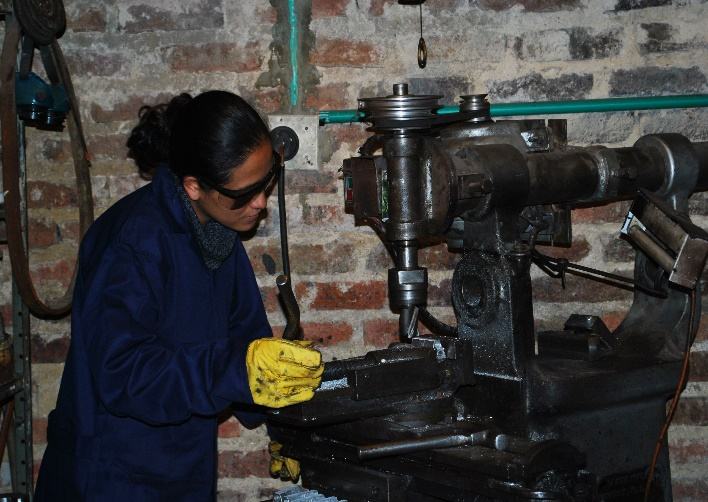
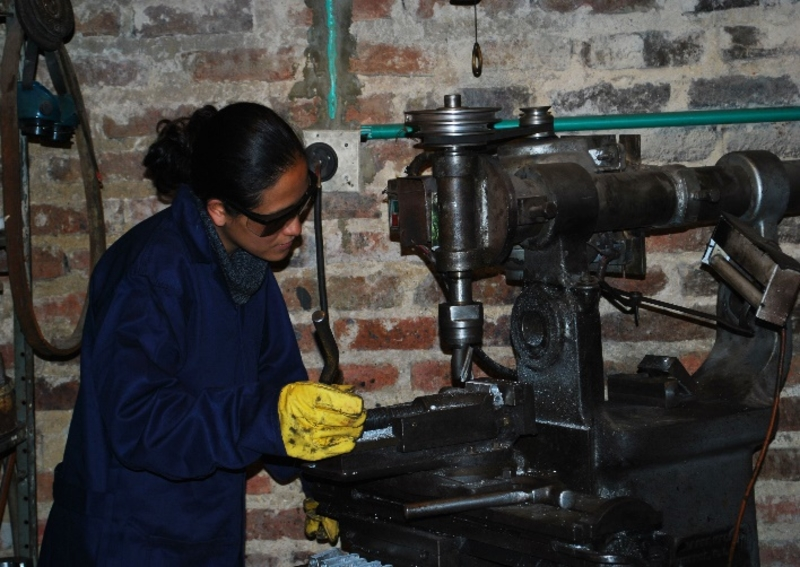
feat: update web version

Changed region(s): [[0.435, 0.747, 0.4972, 0.7769], [0.8701, 0.4183, 0.9011, 0.4482], [0.5593, 0.2092, 0.5904, 0.239]]

diff --git a/assets/img/README.md b/assets/img/README.md
@@ -20,3 +20,12 @@ mogrify -format jpg *.png
 ```shell
 n=1; for f in *.jpg; do mv "$f" "$((n++)).jpg"; done
 ```
+
+## Comprimir imágenes JPG
+
+```shell
+mogrify -quality 100 -resize 800x600 *.jpg
+```
+
+El comando anterior comprime todas las imágenes JPG sin perder calidad de color, pero reduciendo su resolución.
+La resolución `800x600` no se tendrá en cuenta de manera literal, ya que se preservará la relación de aspecto. Dependiendo de la proporción de la imágen se reducirá su ancho o alto.
